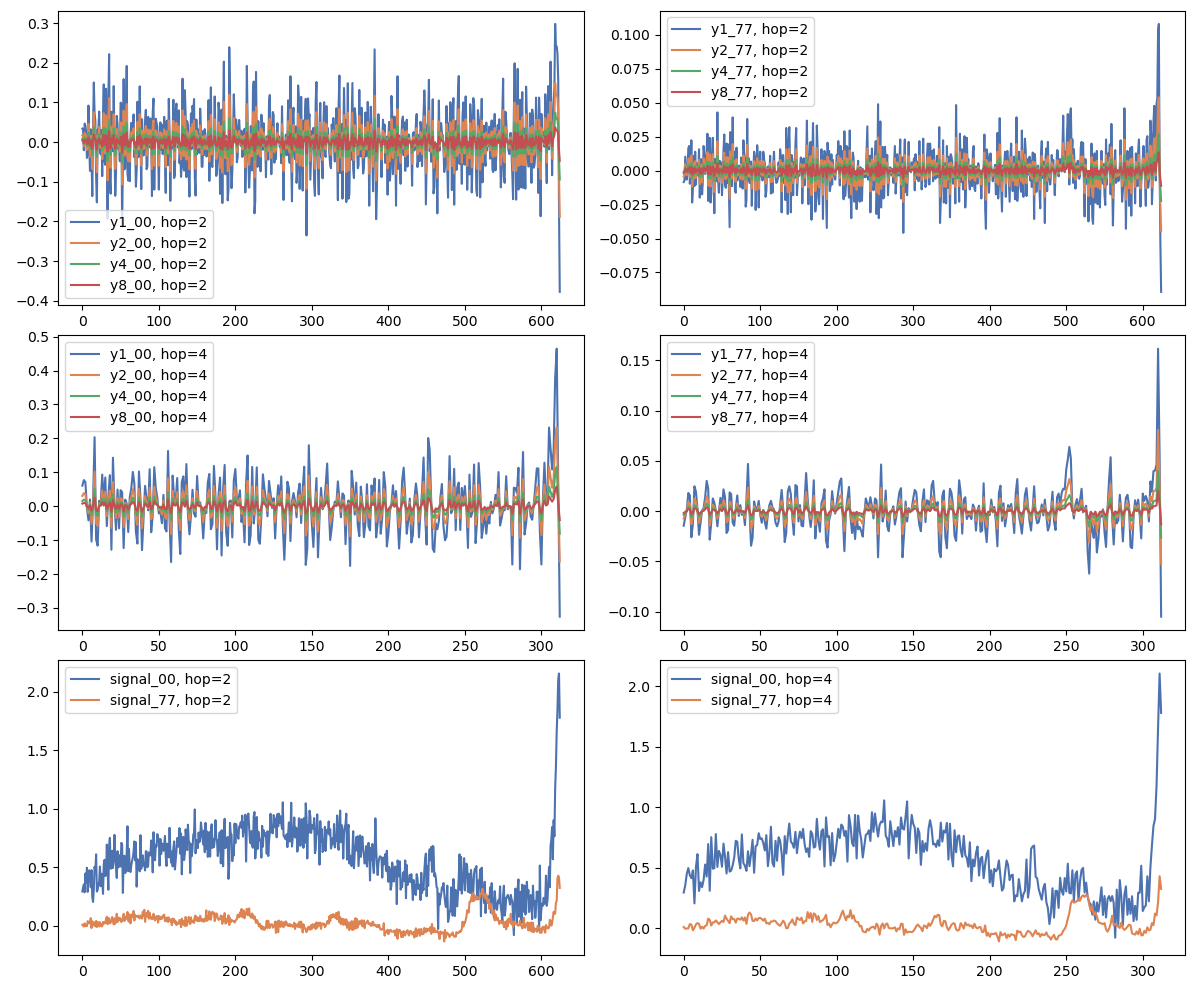
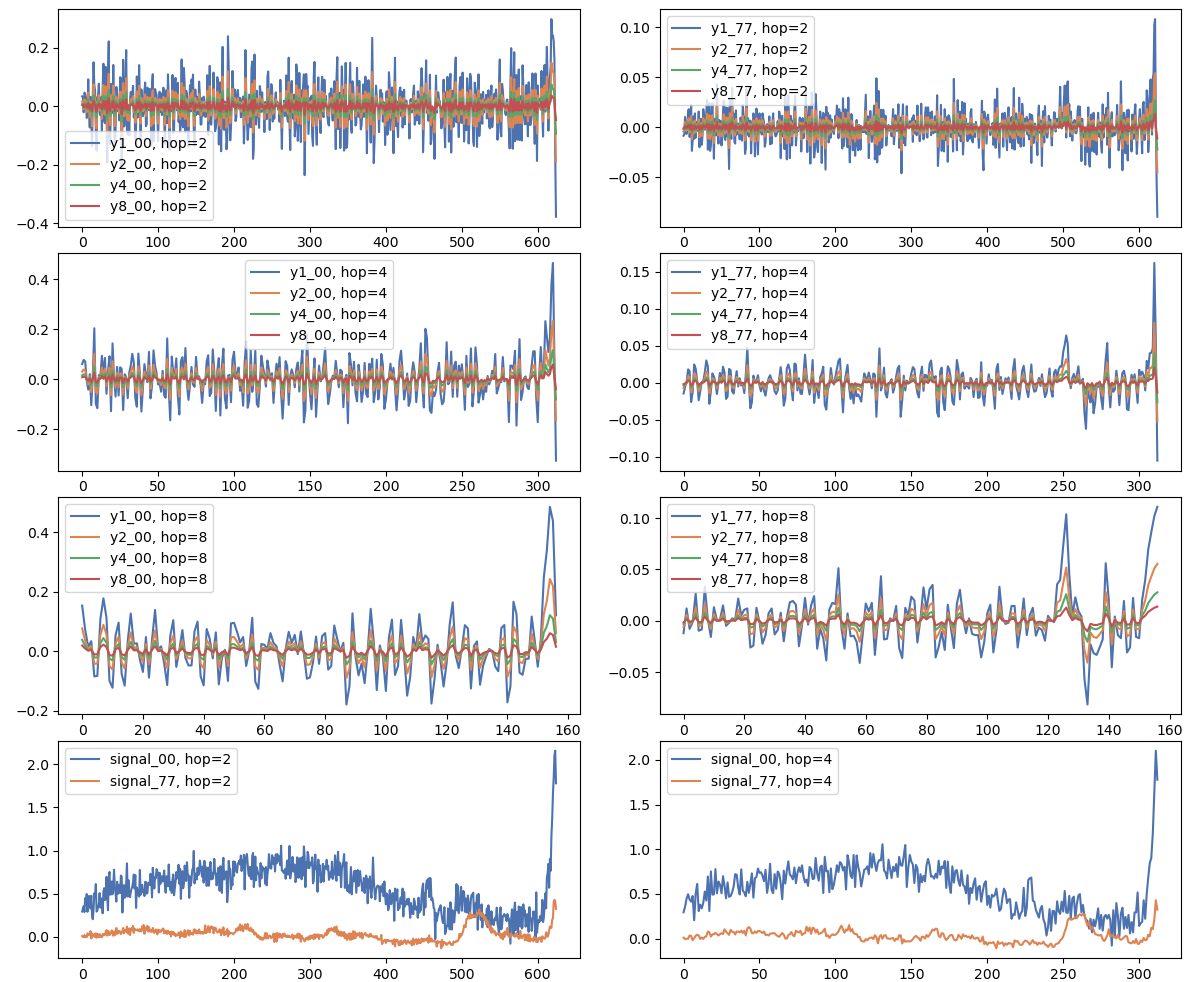
Add hop length of 8.

diff --git a/automatic_labeling.py b/automatic_labeling.py
@@ -36,8 +36,13 @@ if __name__ == "__main__":
     y4_4 = np.gradient(first_signal[::4], 4, axis=0)
     y8_4 = np.gradient(first_signal[::4], 8, axis=0)
 
+    y1_8 = np.gradient(first_signal[::8], axis=0)
+    y2_8 = np.gradient(first_signal[::8], 2, axis=0)
+    y4_8 = np.gradient(first_signal[::8], 4, axis=0)
+    y8_8 = np.gradient(first_signal[::8], 8, axis=0)
+
     # plt.plot(first_signal[::8, 0, 0], label='x')
-    fig, ax = plt.subplots(nrows=3, ncols=2, figsize=(12, 14))
+    fig, ax = plt.subplots(nrows=4, ncols=2, figsize=(12, 16))
     ax = ax.flatten()
     ax[0].plot(y1_2[:, 0, 0], label="y1_00, hop=2")
     ax[0].plot(y2_2[:, 0, 0], label="y2_00, hop=2")
@@ -63,12 +68,24 @@ if __name__ == "__main__":
     ax[3].plot(y8_4[:, -1, -1], label="y8_77, hop=4")
     ax[3].legend()
 
-    ax[4].plot(first_signal[::2, 0, 0], label="signal_00, hop=2")
-    ax[4].plot(first_signal[::2, -1, -1], label="signal_77, hop=2")
+    ax[4].plot(y1_8[:, 0, 0], label="y1_00, hop=8")
+    ax[4].plot(y2_8[:, 0, 0], label="y2_00, hop=8")
+    ax[4].plot(y4_8[:, 0, 0], label="y4_00, hop=8")
+    ax[4].plot(y8_8[:, 0, 0], label="y8_00, hop=8")
     ax[4].legend()
 
-    ax[5].plot(first_signal[::4, 0, 0], label="signal_00, hop=4")
-    ax[5].plot(first_signal[::4, -1, -1], label="signal_77, hop=4")
+    ax[5].plot(y1_8[:, -1, -1], label="y1_77, hop=8")
+    ax[5].plot(y2_8[:, -1, -1], label="y2_77, hop=8")
+    ax[5].plot(y4_8[:, -1, -1], label="y4_77, hop=8")
+    ax[5].plot(y8_8[:, -1, -1], label="y8_77, hop=8")
     ax[5].legend()
+
+    ax[6].plot(first_signal[::2, 0, 0], label="signal_00, hop=2")
+    ax[6].plot(first_signal[::2, -1, -1], label="signal_77, hop=2")
+    ax[6].legend()
+
+    ax[7].plot(first_signal[::4, 0, 0], label="signal_00, hop=4")
+    ax[7].plot(first_signal[::4, -1, -1], label="signal_77, hop=4")
+    ax[7].legend()
     plt.tight_layout()
     plt.show()
